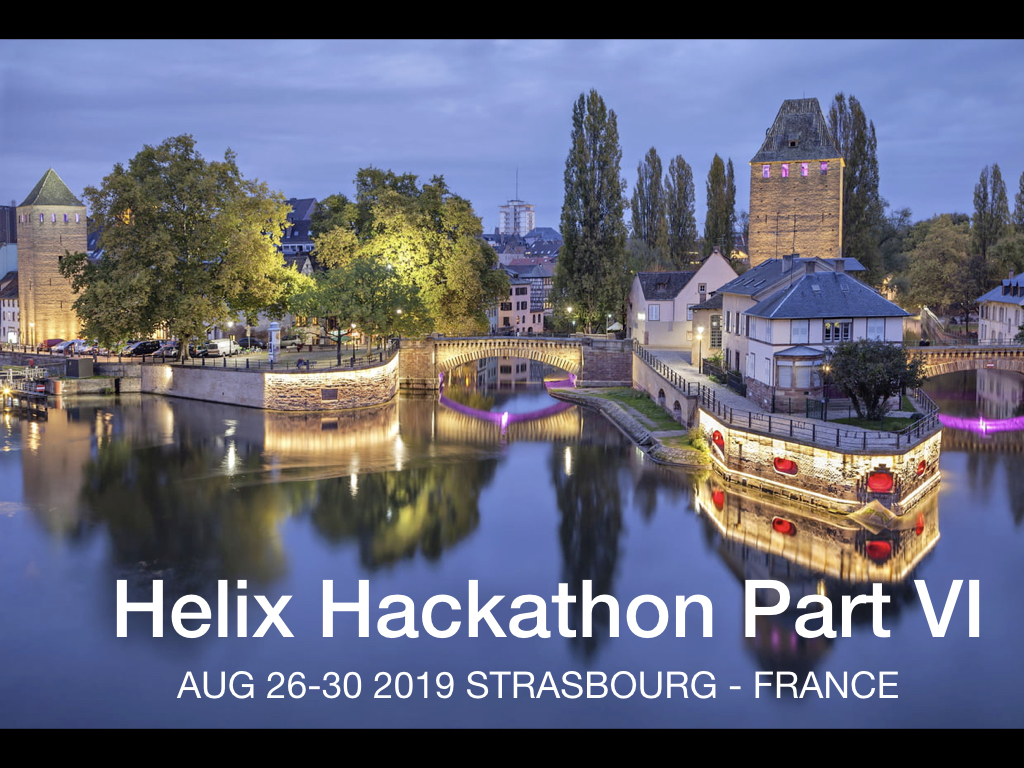
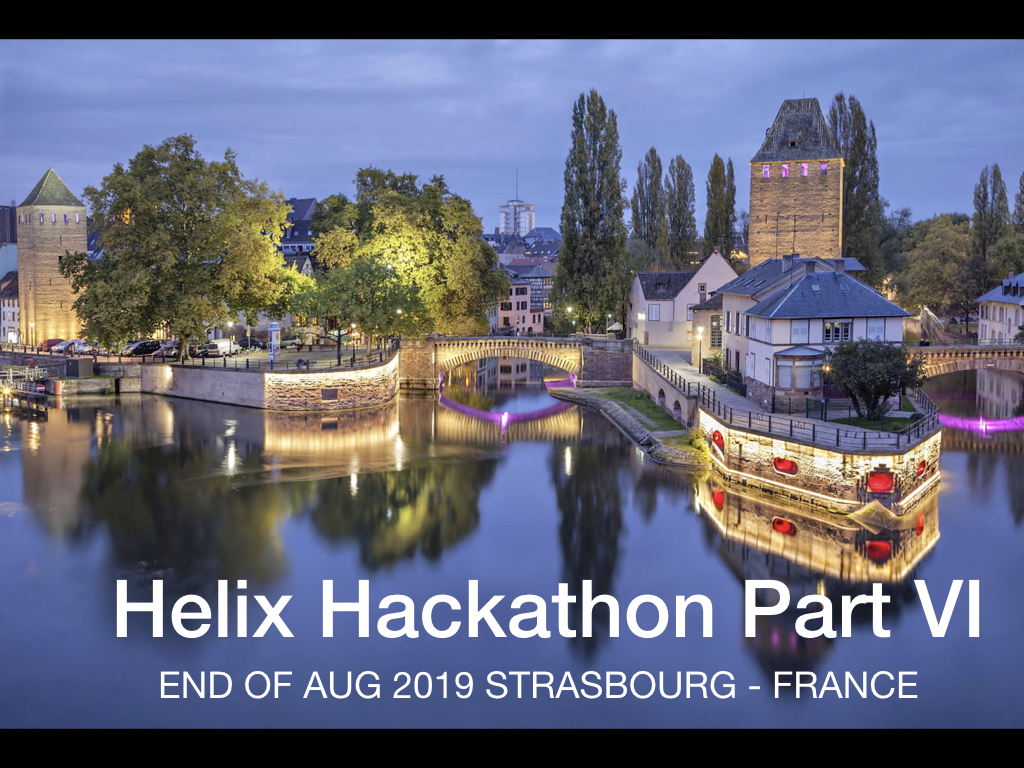
Doodle for dates

Changed region(s): [[0.1562, 0.875, 0.9062, 0.9062]]

diff --git a/hackathons/6-sxb.md b/hackathons/6-sxb.md
@@ -6,7 +6,7 @@
 
 ![Helix - Save the date VI](./Helix%20Save%20the%20Date%206.jpeg)
 
-The sixth Project Helix Hackathon will happen in Strasbourg, France during the week of Aug 26th. If you feel like attending, please sign up [here](#Attendees).
+The sixth Project Helix Hackathon will happen in Strasbourg, France end of August. If you feel like attending, please sign up [here](#Attendees) and vote for a week: https://doodle.com/poll/kffbvwc5r7cu6kct
 
 ### Location
 
